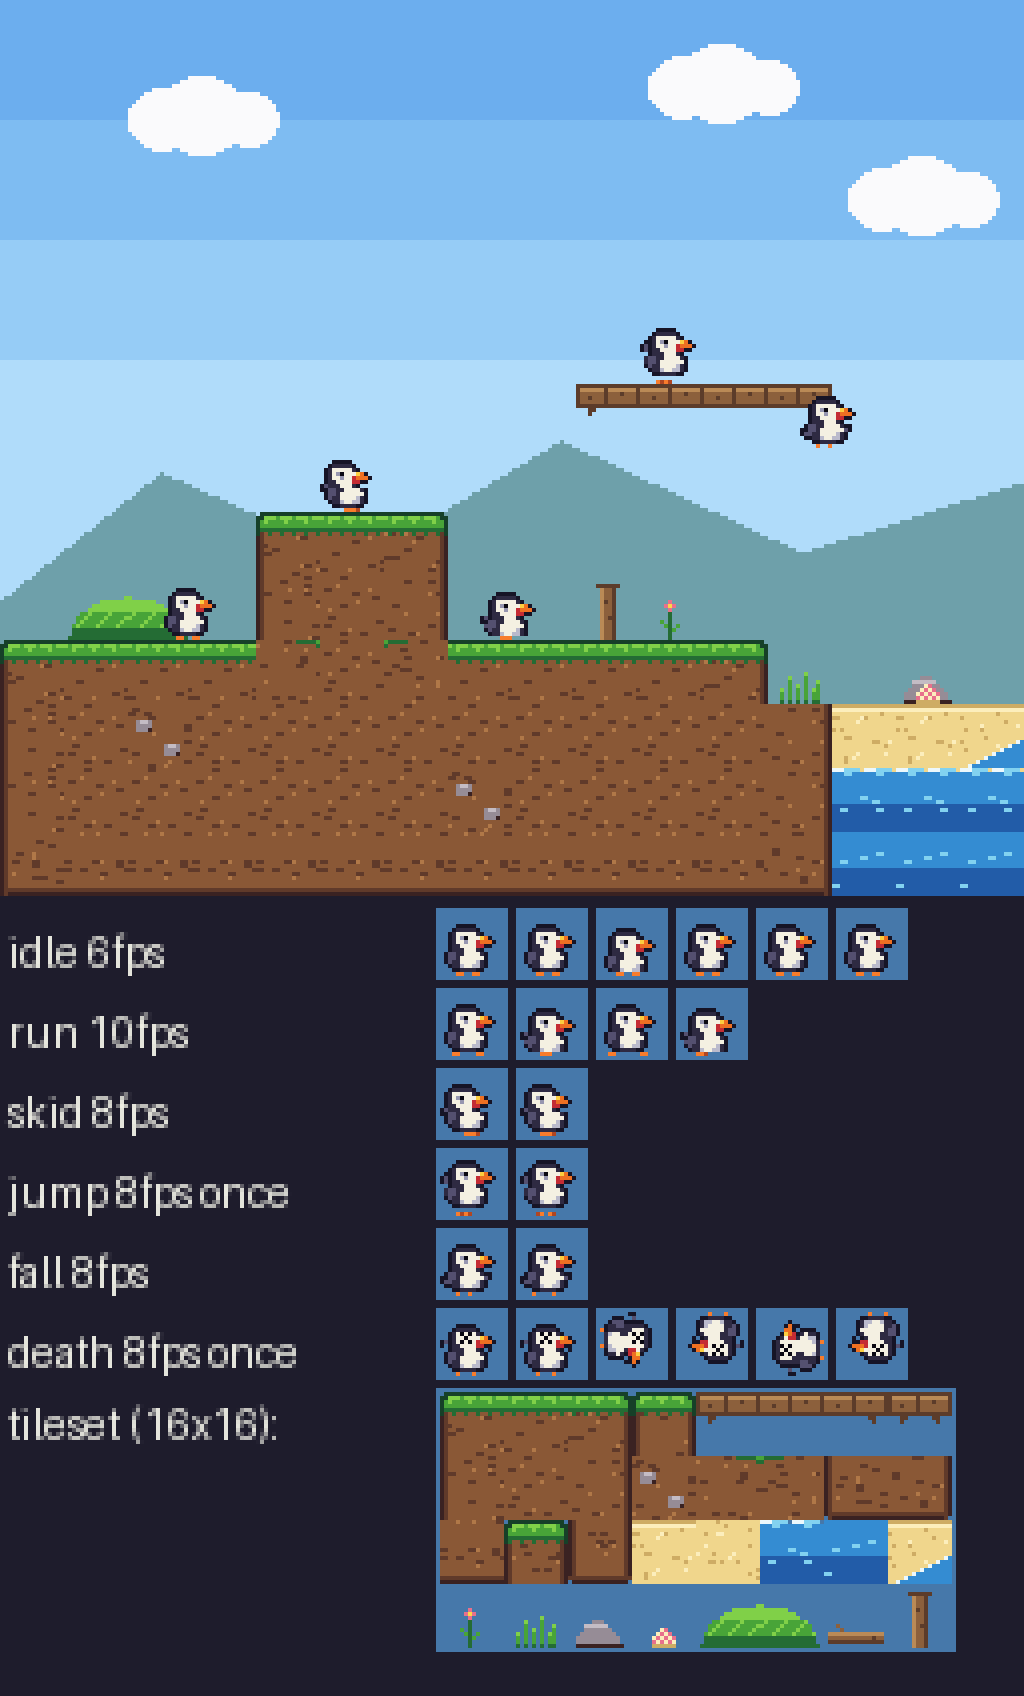
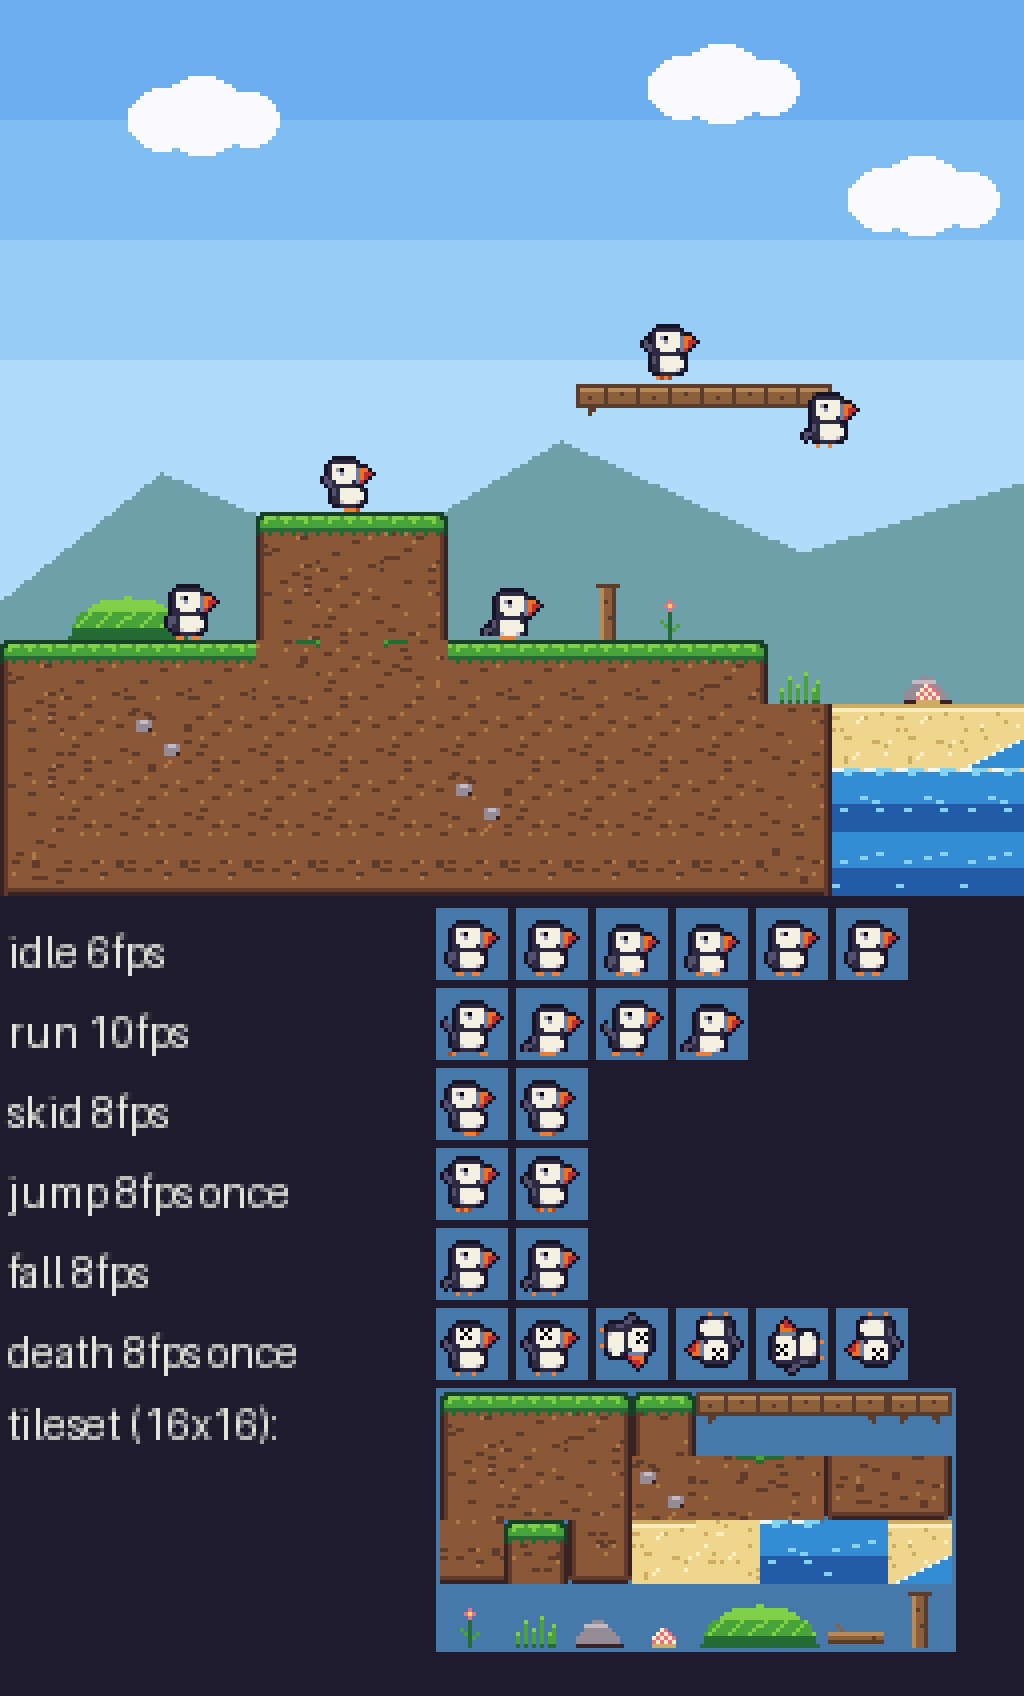
M2 art QA: real puffin look, distinct run cycle, boolean loop flags, asserting validator, player uses puffin_frames.tres (drop puffin_sprite.gd)

diff --git a/tools/gen_art.py b/tools/gen_art.py
@@ -6,7 +6,7 @@ from PIL import Image, ImageDraw
 
 PAL = {
     "o": (22, 20, 38), "K": (46, 42, 66), "k": (84, 80, 112), "W": (244, 240, 226),
-    "w": (186, 186, 204), "G": (150, 150, 176), "E": (10, 8, 18), "Y": (252, 206, 64),
+    "w": (196, 196, 212), "G": (150, 150, 176), "B": (112, 128, 160), "E": (10, 8, 18), "Y": (252, 206, 64),
     "O": (238, 112, 34), "R": (196, 44, 52), "F": (248, 124, 44), "f": (176, 70, 34),
 }
 # Tile palette (shares outline/whites with the puffin for cohesion)
@@ -22,26 +22,25 @@ T = {
 IDLE = [
     "................",
     "................",
-    "................",
-    "....ooooo.......",
-    "...oKKKKKo......",
-    "..oKWWWWWKo.....",
-    "..oKWGEWWWYOo...",
-    "..oKWWGWWROOOo..",
-    "..oKKWWWWRRoo...",
-    "..oKKKWWWKo.....",
-    ".okkKKWWWWKo....",
+    "....oooooo......",
+    "...oKKKKKKo.....",
+    "..oKWWWWWWKoo...",
+    "..oKWGEWWWBOOo..",
+    "..oKWWGWWWBORRo.",
+    "..oKWWWWWWBORo..",
+    "..oKKWWWWKBRo...",
+    "..oKKKKKKKoo....",
+    ".okkKWWWWWKo....",
     ".okkKWWWWWWo....",
-    ".okKKWWWWwKo....",
-    "..oKKwWWwwKo....",
+    ".okKKWWWWWWo....",
+    "..oKKwWWWwKo....",
     "...ooKKKKoo.....",
     "....FF..FF......",
 ]
 
 def grid(rows): return [list(r) for r in rows]
-def body(g): return g[:15]
 def with_feet(g, feet):
-    g = [r[:] for r in g]; g[15] = list(feet.ljust(16, ".")); return g
+    g = [r[:] for r in g]; g[15] = list(feet.ljust(16, ".")[:16]); return g
 def shift(g, dy, dx=0, rows=range(0, 15)):
     out = [r[:] for r in g]
     for y in rows: out[y] = ["."] * 16
@@ -54,33 +53,44 @@ def put(g, pts):
     g = [r[:] for r in g]
     for x, y, c in pts: g[y][x] = c
     return g
+def clear_wing(g):  # remove the folded wing (cols 1-2, rows 10-12) -> back plumage
+    return put(g, [(1, 10, "."), (1, 11, "."), (1, 12, "."), (2, 10, "o"), (2, 11, "o"), (2, 12, "o")])
+def wing_up(g, dy=0):   # wing raised behind the back
+    g = clear_wing(g)
+    return put(g, [(1, 6 + dy, "o"), (0, 7 + dy, "o"), (1, 7 + dy, "k"), (0, 8 + dy, "o"), (1, 8 + dy, "k"),
+                   (2, 8 + dy, "k"), (1, 9 + dy, "o"), (2, 9 + dy, "k")])
+def wing_down(g):       # wing swept down/back
+    g = clear_wing(g)
+    return put(g, [(1, 11, "o"), (0, 12, "o"), (1, 12, "k"), (0, 13, "o"), (1, 13, "k"), (1, 14, "o"), (2, 12, "k")])
 
 base = grid(IDLE)
-blink = put(base, [(6, 6, "o"), (5, 6, "W")])
-idle = [base, base, shift(base, 1, rows=range(0, 15)), base, blink, base]
-# run: body bob + alternating feet + wing swing
-wing_up = put(base, [(1, 10, "o"), (1, 11, "k"), (0, 10, "o"), (0, 9, "o"), (1, 9, "k")])
+blink = put(base, [(6, 5, "o"), (6, 6, "W")])
+breath = shift(base, 1, rows=range(2, 15))
+idle = [base, base, breath, breath, blink, base]
+# run: forward lean (head/upper body pushed +1px), bob, flapping wing, long stride
+lean = shift(base, 0, 1, rows=range(2, 10))
+lean = put(lean, [(3, y, "o") for y in range(4, 10)] + [(2, y, ".") for y in range(4, 9)])
 run = [
-    with_feet(shift(base, 0), "...FF....FF"),
-    with_feet(shift(wing_up, 1), ".....FFF"),
-    with_feet(shift(base, 0), "..FF......FF"),
-    with_feet(shift(wing_up, 1), "....FFf"),
+    with_feet(wing_up(lean), "..fF......FF"),
+    with_feet(shift(wing_down(lean), 1), ".....FFFF"),
+    with_feet(wing_up(lean, 1), "...FF....Ff"),
+    with_feet(shift(wing_down(lean), 1), "....FFFF"),
 ]
-run[1][14] = list("...ooKKKKoo.....") if False else run[1][14]
-# skid: lean back (top shifted left), feet braced forward
-sk = shift(base, 0, -1, rows=range(3, 10))
-sk = put(sk, [(0, 9, "o"), (0, 10, "o"), (1, 9, "k")])
-skid = [with_feet(sk, "......FFFf"), with_feet(sk, ".....FFFf")]
-# jump: wings raised, feet tucked
-jp = put(base, [(0, 7, "o"), (1, 7, "k"), (1, 8, "k"), (0, 8, "o"), (1, 6, "o"), (1, 10, "K"), (1, 11, "K")])
-jump = [with_feet(shift(jp, -1), "....FfFf"), with_feet(shift(jp, -1), "....fF.Ff")]
-# fall: wings flared down/out, feet dangling
-fl = put(base, [(0, 11, "o"), (0, 12, "o"), (1, 12, "k"), (1, 13, "o"), (12, 10, "o"), (12, 11, "o"), (11, 11, "k")])
-fall = [with_feet(fl, "....F..F"), with_feet(fl, "...F....F")]
-# death: X eyes, wings up, then tumble
-dz = put(base, [(5, 5, "E"), (7, 5, "E"), (6, 6, "E"), (5, 7, "E"), (7, 7, "E"), (6, 5, "W"), (6, 7, "W"), (5, 6, "W"), (7, 6, "W")])
-dz = put(dz, [(0, 7, "o"), (1, 7, "k"), (0, 8, "o"), (12, 9, "o"), (12, 8, "o")])
-dz = with_feet(dz, "....F...F")
+# skid: lean back, wing braced out front-ish, feet planted forward
+sk = shift(base, 0, -1, rows=range(2, 10))
+sk = wing_up(sk)
+skid = [with_feet(sk, "......FFFf"), with_feet(shift(sk, 0, 0), ".....FFFf.")]
+# jump: wings up, feet tucked
+jp = shift(wing_up(base, -1), -1)
+def tuck(g, feet):  # feet pulled up under the body (row 14), nothing below
+    g = [r[:] for r in g]; g[14] = list(feet.ljust(16, ".")); g[15] = ["."] * 16; return g
+jump = [tuck(jp, "....FfFf"), tuck(shift(wing_up(base, 0), -1), "....fF.Ff")]
+# fall: wings flared down, feet dangling
+fl = wing_down(base)
+fall = [with_feet(fl, "....F..F"), with_feet(shift(fl, 0), "...F....F")]
+# death: X eyes, open beak, then tumble
+dz = put(base, [(5, 4, "E"), (7, 4, "E"), (6, 5, "E"), (5, 6, "E"), (7, 6, "E"), (6, 4, "W"), (6, 6, "W"), (5, 5, "W"), (7, 5, "W")])
+dz = with_feet(wing_up(dz), "....F...F")
 def rot90(g): return [[g[15 - x][y] for x in range(16)] for y in range(16)]
 death = [dz, dz, rot90(dz), rot90(rot90(dz)), rot90(rot90(rot90(dz))), rot90(rot90(dz))]
 
@@ -328,4 +338,3 @@ if __name__ == "__main__":
         for r, row in enumerate(TILE_NAMES):
             for c, n in enumerate(row):
                 f.write(f"{c} {r} {n} {'solid' if n in SOLID else 'oneway' if n in ONE_WAY else 'none'}\n")
-    print("ok", ps.size, ts.size, pv.size)

diff --git a/README.md b/README.md
@@ -20,7 +20,7 @@ Godot **4.7.2-stable** (GDScript, GL Compatibility renderer). Base resolution 25
 | Respawn | R | Start |
 
 ### Layout
-`scenes/main.tscn` (entry), `scripts/level.gd` (ASCII gray-box level, falling out respawns you), `scripts/player.gd` (puffin controller, `Power` enum is the hook for the fish power-ups), `scripts/follow_camera.gd`, `scripts/puffin_sprite.gd` (original 16x16 placeholder art made in code), `scripts/input_setup.gd` (input map). `art/`, `audio/` are reserved.
+`scenes/main.tscn` (entry), `scripts/level.gd` (ASCII gray-box level, falling out respawns you), `scripts/player.gd` (puffin controller, `Power` enum is the hook for the fish power-ups), `scripts/follow_camera.gd`, `scripts/input_setup.gd` (input map). `art/` holds the original M2 puffin SpriteFrames and coastal TileSet (regenerate with `tools/gen_art.py` + `tools/build_resources.gd`); `audio/` is reserved.
 
 ### Tuning (exported on `Puffin`, px and seconds)
 walk_speed 90, run_speed 150, ground_accel 420, ground_decel 520, skid_decel 900, air_accel 300, air_decel 120, jump_velocity -330, run_jump_bonus -25, gravity_rise 820, gravity_fall 1300, jump_cut_multiplier 0.45, max_fall_speed 300, coyote_time 0.09, jump_buffer_time 0.11. Camera: look_ahead 40, smoothing 7.
